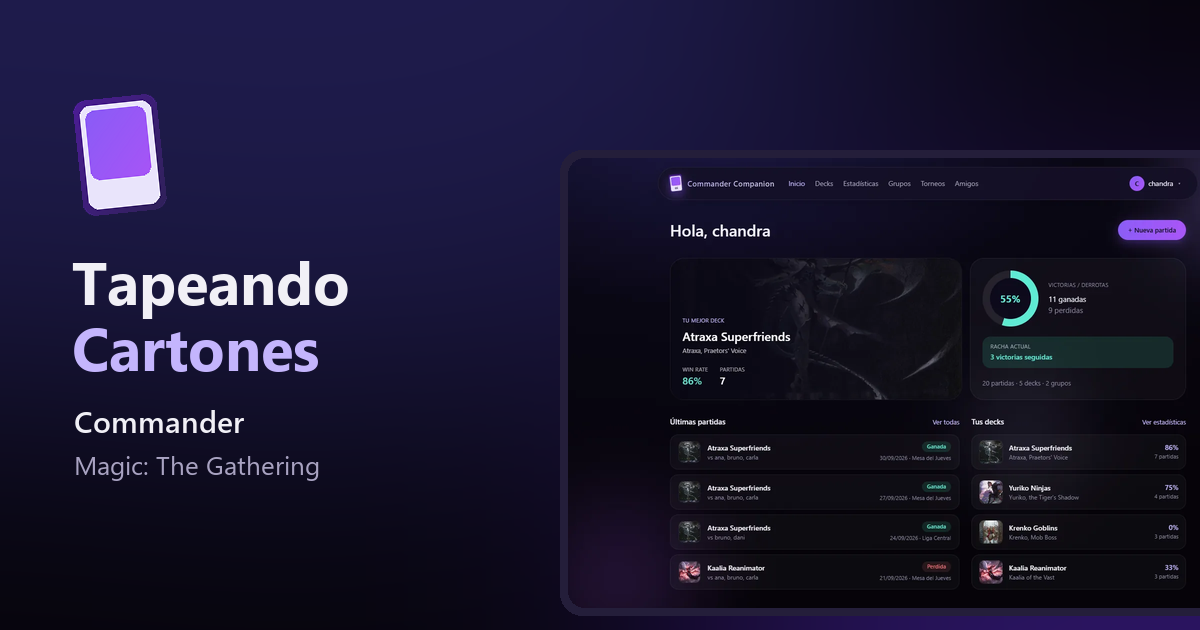
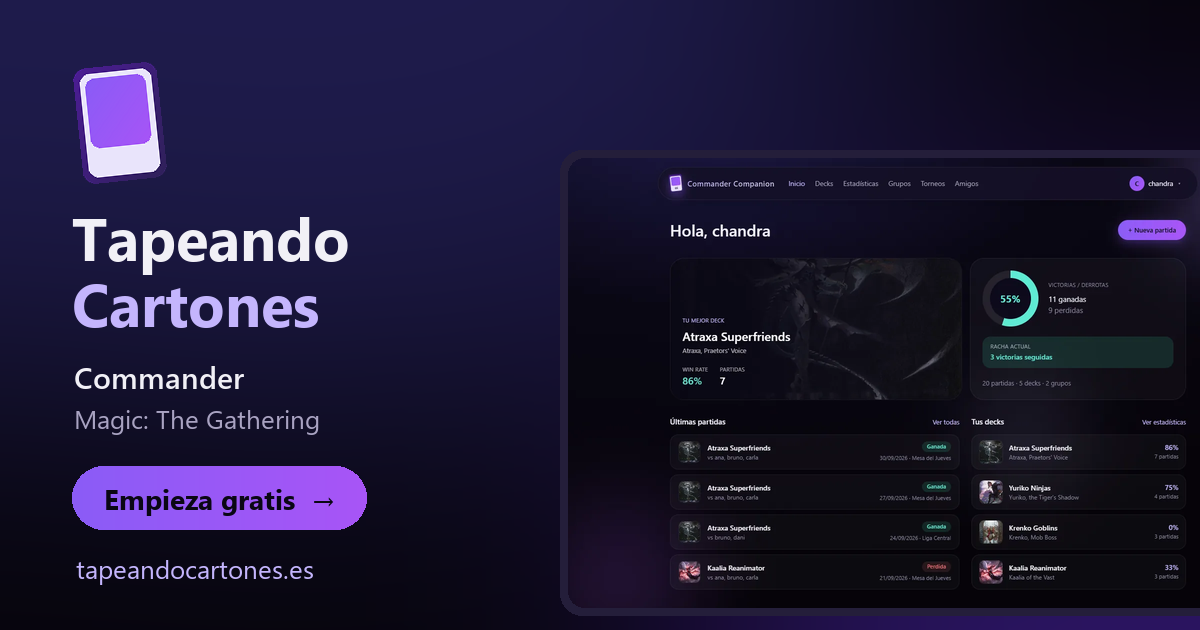
Shorten the landing's SEO texts and add a call to action to the share image
opengraph.xyz flagged the title (66 chars) and description (179 chars) as
too long for search results and link previews. Titles are now 52-53 chars
in every locale, the meta description 146-153, and a new socialDescription
(107-113 chars) feeds og:description and twitter:description.

The share image gains an "Empieza gratis" button and the domain, and its
URL gets a ?v=2 so platforms that cache previews by image URL refetch it.

Changed region(s): [[0.0617, 0.0905, 0.3083, 0.6937], [0.0617, 0.7238, 0.3083, 0.8444], [0.0617, 0.8746, 0.2775, 0.9349]]

diff --git a/web/app/components/LandingPage.vue b/web/app/components/LandingPage.vue
@@ -14,23 +14,27 @@ const availableLocales = computed(() => locales.value as { code: string, name?: 
 
 // og:image must be absolute: link-preview crawlers (WhatsApp, Discord, X...)
 // don't resolve relative URLs. The image is public/og-image.png, 1200x630,
-// the size every major platform crops to without losing anything.
+// the size every major platform crops to without losing anything. Bump `v`
+// whenever the image changes: platforms cache previews by image URL.
+// Two descriptions on purpose: Google shows ~155 characters of `description`,
+// while link previews (WhatsApp, X, LinkedIn) cut around 125.
 const siteUrl = useSiteUrl()
+const ogImage = `${siteUrl}/og-image.png?v=2`
 useSeoMeta({
   title: () => t('landing.meta.title'),
   description: () => t('landing.meta.description'),
   ogTitle: () => t('landing.meta.title'),
-  ogDescription: () => t('landing.meta.description'),
+  ogDescription: () => t('landing.meta.socialDescription'),
   ogType: 'website',
   ogLocale: () => (localeProperties.value.language ?? 'es-ES').replace('-', '_'),
-  ogImage: `${siteUrl}/og-image.png`,
+  ogImage,
   ogImageWidth: 1200,
   ogImageHeight: 630,
   ogImageType: 'image/png',
   ogImageAlt: () => t('landing.meta.imageAlt'),
   twitterTitle: () => t('landing.meta.title'),
-  twitterDescription: () => t('landing.meta.description'),
-  twitterImage: `${siteUrl}/og-image.png`,
+  twitterDescription: () => t('landing.meta.socialDescription'),
+  twitterImage: ogImage,
   twitterImageAlt: () => t('landing.meta.imageAlt'),
 })
 
